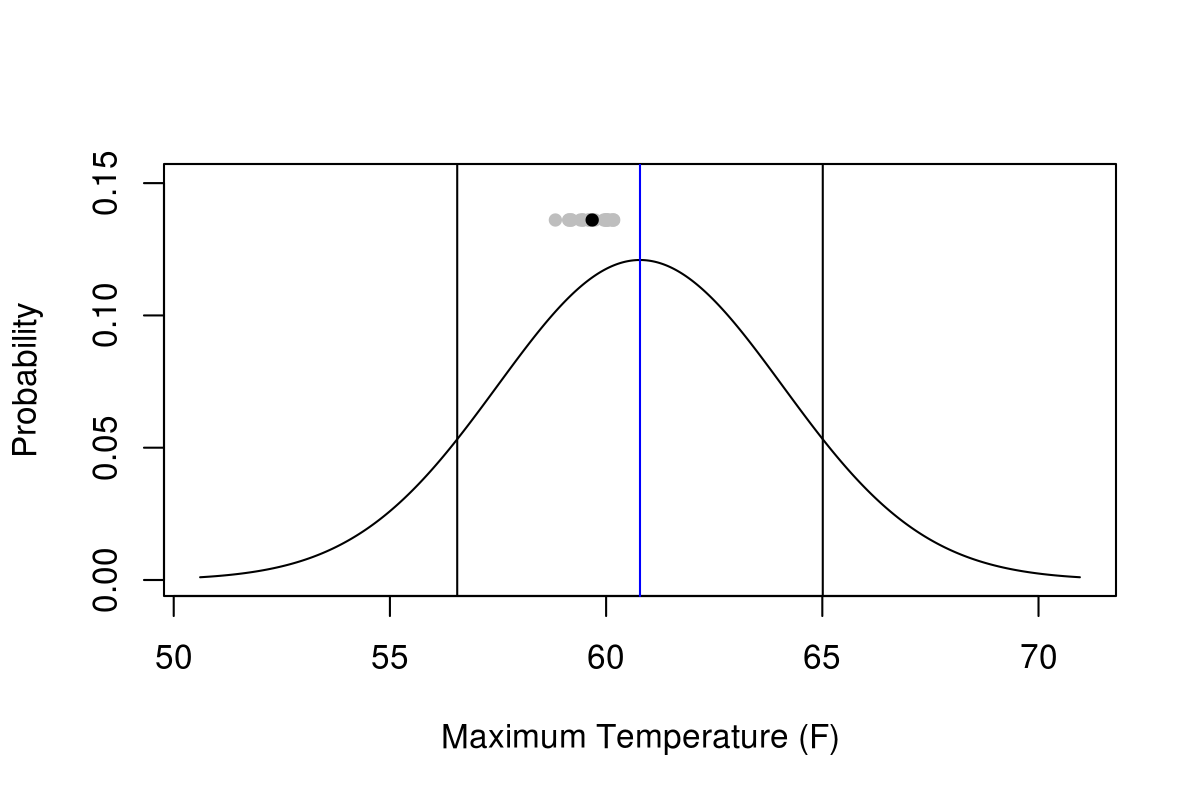
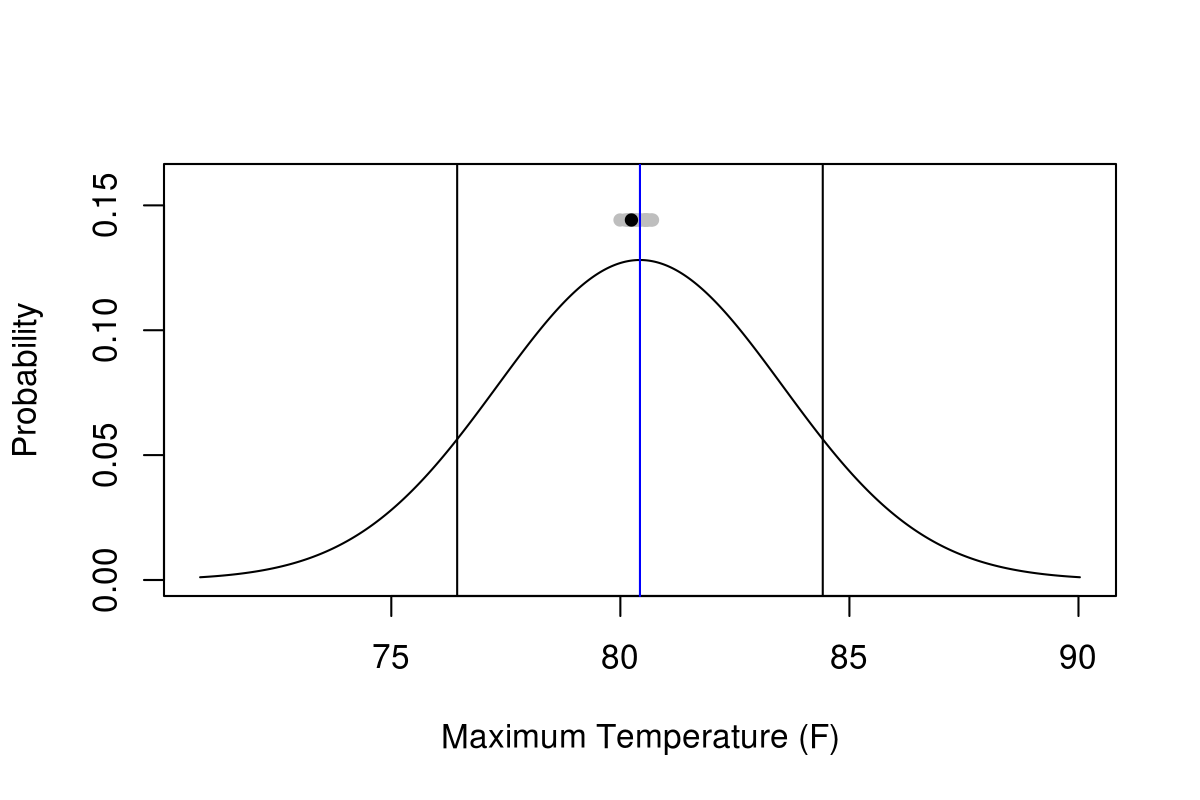
Edited wxchallenge.md

diff --git a/wxchallenge.md b/wxchallenge.md
@@ -10,11 +10,11 @@ This page provides some tools I use to help me in the [WxChallenge](http://www.w
 * [SREF Plume Viewer](http://www.spc.noaa.gov/exper/sref/srefplumes/)
 * [WxChallenge WxData](http://www.wxchallenge.com/tools/weatherdata.php)
 
-## Calibrated PDFs for KMDT for Friday, October 14
+## Calibrated PDFs for KMDT for Tuesday, October 18
 
 For information on Bayesian Model Averaging (BMA), scroll to the [bottom of this page](#bma). Click on each image to enlarge it.
 
-> Plots updated 2016-10-13 17:27 GMT
+> Plots updated 2016-10-17 18:33 GMT
 
 <p align="center"><strong>Maximum Temperature</strong></p>
 [<img src="tmax.png" width="700"/>](tmax.png)
